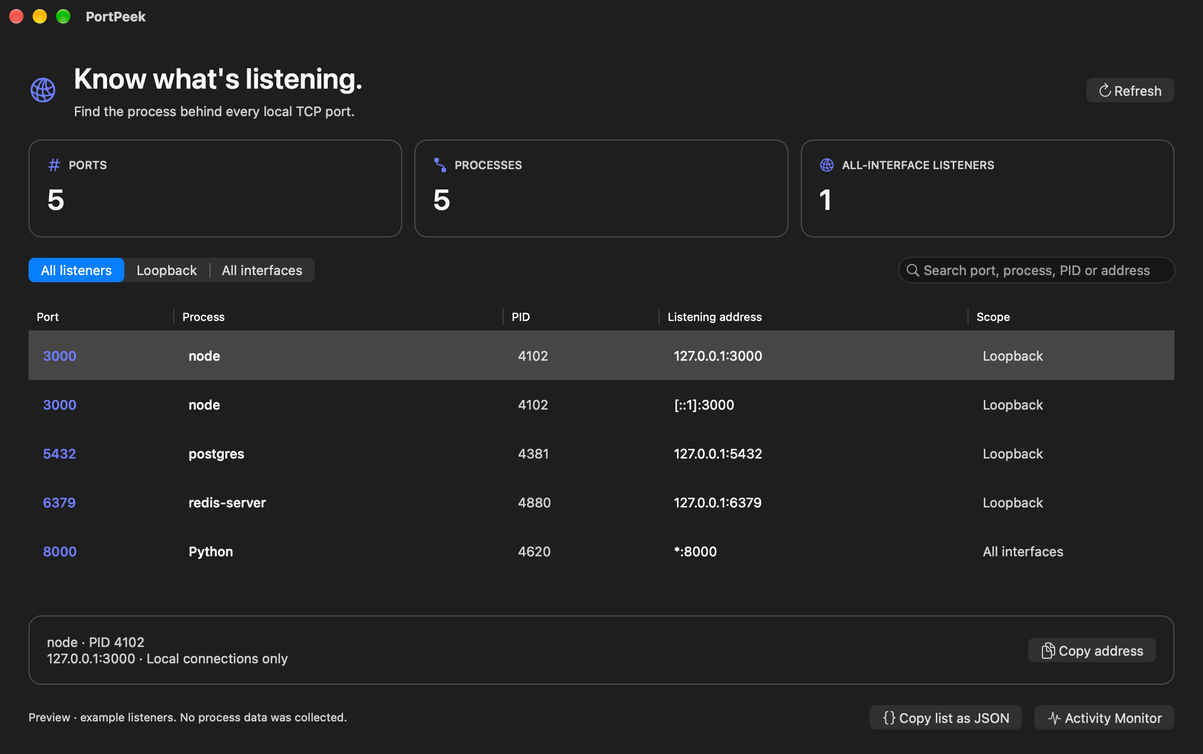
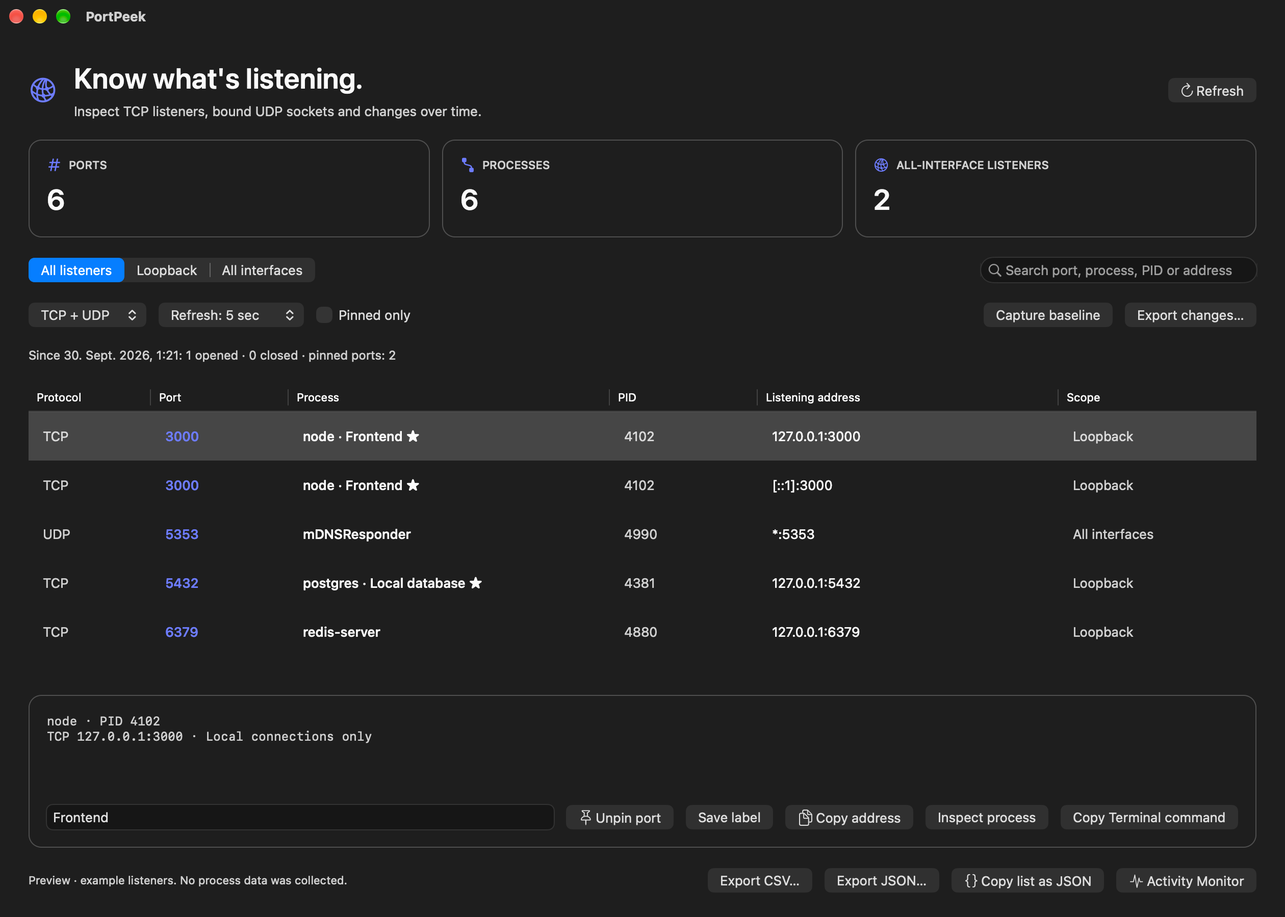
Add UDP inspection, labeled pins, baseline changes, process details and CLI

diff --git a/Sources/App.swift b/Sources/App.swift
@@ -3,41 +3,53 @@ import AppKit
 final class AppDelegate: ProductAppDelegate, NSTableViewDataSource, NSTableViewDelegate, NSSearchFieldDelegate {
     var listeners: [Listener] = [], shown: [Listener] = []
     var table: NSTableView!, search: NSSearchField!, scope: NSSegmentedControl!, status: NSTextField!, inspector: NSTextField!, copyButton: NSButton!
+    var transport:NSPopUpButton!, interval:NSPopUpButton!, pinnedOnly:NSButton!, labelField:NSTextField!, pinButton:NSButton!, delta:NSTextField!
+    var pins:Set<Int>=[], labels:[String:String]=[:], baseline:PortSnapshot?, changes=PortChanges(opened:[],closed:[]), hasRead=false
     var portsMetric: Metric!, processesMetric: Metric!, networkMetric: Metric!, refreshButton: NSButton!, timer: Timer?, reading = false
     override func buildWindow() {
-        makeWindow(width:1180,height:740,minWidth:940,minHeight:640)
+        makeWindow(width:1260,height:900,minWidth:1080,minHeight:810)
         let root = NSView(); window.contentView = root
-        let heading = vertical([text("Know what's listening.",28,.semibold),text("Find the process behind every local TCP port.",13,color:.secondaryLabelColor)],spacing:8)
+        let heading = vertical([text("Know what's listening.",28,.semibold),text("Inspect TCP listeners, bound UDP sockets and changes over time.",13,color:.secondaryLabelColor)],spacing:8)
         refreshButton = button("Refresh", "arrow.clockwise",target:self,action:#selector(refresh)); refreshButton.keyEquivalent = "r"
         search = NSSearchField(); search.placeholderString = "Search port, process, PID or address"; search.delegate = self; search.widthAnchor.constraint(equalToConstant:270).isActive = true
         let header = horizontal([horizontal([symbol("network",size:24),heading],spacing:16),spacer(),refreshButton])
         portsMetric = Metric("PORTS",value:"—",icon:"number"); processesMetric = Metric("PROCESSES",value:"—",icon:"app.connected.to.app.below.fill"); networkMetric = Metric("ALL-INTERFACE LISTENERS",value:"—",icon:"network")
         let metrics = horizontal([portsMetric,processesMetric,networkMetric],spacing:12); metrics.distribution = .fillEqually
         scope = NSSegmentedControl(labels:["All listeners","Loopback","All interfaces"],trackingMode:.selectOne,target:self,action:#selector(filter)); scope.selectedSegment = 0
+        transport=NSPopUpButton(); transport.addItems(withTitles:["TCP + UDP","TCP","UDP"]); transport.target=self; transport.action=#selector(filter)
+        interval=NSPopUpButton(); interval.addItems(withTitles:["Refresh: 5 sec","Refresh: 15 sec","Refresh: 30 sec","Manual refresh"]); interval.target=self; interval.action=#selector(changeInterval)
+        pinnedOnly=NSButton(checkboxWithTitle:"Pinned only",target:self,action:#selector(filter))
+        if !isDemo { pins=Set(UserDefaults.standard.array(forKey:"pins") as? [Int] ?? []); labels=UserDefaults.standard.dictionary(forKey:"labels") as? [String:String] ?? [:]; if let data=UserDefaults.standard.data(forKey:"baseline") { baseline=try? JSONDecoder().decode(PortSnapshot.self,from:data) } }
         let controls = horizontal([scope,spacer(),search])
-        table = makeTable([("port","Port",100),("process","Process",280),("pid","PID",110),("address","Listening address",260),("scope","Scope",160)]); table.dataSource = self; table.delegate = self
+        let monitoring = horizontal([transport,interval,pinnedOnly,spacer(),button("Capture baseline",target:self,action:#selector(captureBaseline)),button("Export changes…",target:self,action:#selector(exportChanges))])
+        delta=text("Capture a baseline to compare future observations.",12,color:.secondaryLabelColor)
+        table = makeTable([("protocol","Protocol",85),("port","Port",100),("process","Process",280),("pid","PID",110),("address","Listening address",260),("scope","Scope",160)]); table.dataSource = self; table.delegate = self
         let tableCard = Surface(scroll(table),padding:0)
-        inspector = text("Select a listener to inspect its address and process.",13,color:.secondaryLabelColor); inspector.maximumNumberOfLines = 2; inspector.lineBreakMode = .byWordWrapping
+        inspector = text("Select a listener to inspect its address and process.",13,color:.secondaryLabelColor); inspector.maximumNumberOfLines = 4; inspector.lineBreakMode = .byWordWrapping
         copyButton = button("Copy address", "doc.on.doc",target:self,action:#selector(copyAddress)); copyButton.isEnabled = false
         let copyJSON = button("Copy list as JSON", "curlybraces",target:self,action:#selector(copyList)); let monitor = button("Activity Monitor", "waveform.path.ecg",target:self,action:#selector(openMonitor))
-        let actions = horizontal([inspector,spacer(),copyButton]); let inspectorSurface = Surface(actions,padding:18)
+        inspector.font = .monospacedSystemFont(ofSize:12,weight:.regular); inspector.heightAnchor.constraint(equalToConstant:78).isActive=true
+        labelField=NSTextField(string:""); labelField.placeholderString="Label this port, e.g. API / Postgres"; labelField.target=self; labelField.action=#selector(saveLabel)
+        pinButton=button("Pin port", "pin",target:self,action:#selector(togglePin))
+        let actions=horizontal([labelField,pinButton,button("Save label",target:self,action:#selector(saveLabel)),copyButton,button("Inspect process",target:self,action:#selector(processDetails)),button("Copy Terminal command",target:self,action:#selector(copyCommand))])
+        let detail=vertical([inspector,actions]); fullWidth(inspector,detail); fullWidth(actions,detail); let inspectorSurface=Surface(detail,padding:18)
         status = text(isDemo ? "Preview · example listeners. No process data was collected." : "Reading local listeners…",11,color:.secondaryLabelColor)
-        let bottom = horizontal([status,spacer(),copyJSON,monitor])
-        let body = vertical([header,metrics,controls,tableCard,inspectorSurface,bottom],spacing:20)
-        for view in [header,metrics,controls,tableCard,inspectorSurface,bottom] { fullWidth(view,body) }
+        let bottom = horizontal([status,spacer(),button("Export CSV…",target:self,action:#selector(exportCSV)),button("Export JSON…",target:self,action:#selector(exportJSON)),copyJSON,monitor])
+        let body = vertical([header,metrics,controls,monitoring,delta!,tableCard,inspectorSurface,bottom],spacing:20)
+        for view in [header,metrics,controls,monitoring,delta!,tableCard,inspectorSurface,bottom] { fullWidth(view,body) }
         root.addSubview(body); body.translatesAutoresizingMaskIntoConstraints = false
         NSLayoutConstraint.activate([body.leadingAnchor.constraint(equalTo:root.leadingAnchor,constant:28),body.trailingAnchor.constraint(equalTo:root.trailingAnchor,constant:-28),body.topAnchor.constraint(equalTo:(window.contentLayoutGuide as! NSLayoutGuide).topAnchor,constant:28),body.bottomAnchor.constraint(equalTo:root.bottomAnchor,constant:-24)])
         if isDemo {
-            listeners = [Listener(pid:4102,process:"node",host:"127.0.0.1",port:3000),Listener(pid:4102,process:"node",host:"::1",port:3000),Listener(pid:4381,process:"postgres",host:"127.0.0.1",port:5432),Listener(pid:4620,process:"Python",host:"*",port:8000),Listener(pid:4714,process:"ruby",host:"127.0.0.1",port:9292),Listener(pid:4880,process:"redis-server",host:"127.0.0.1",port:6379)]
-            filter(); table.selectRowIndexes(IndexSet(integer:0),byExtendingSelection:false)
-        } else { refresh(); timer = Timer.scheduledTimer(withTimeInterval:5,repeats:true) { [weak self] _ in guard let self, self.window.isVisible else { return }; self.refresh() } }
+            pins=[3000,5432]; labels=["3000":"Frontend","5432":"Local database"]; listeners = [Listener(pid:4102,process:"node",host:"127.0.0.1",port:3000),Listener(pid:4102,process:"node",host:"::1",port:3000),Listener(pid:4381,process:"postgres",host:"127.0.0.1",port:5432),Listener(pid:4620,process:"Python",host:"*",port:8000),Listener(pid:4714,process:"ruby",host:"127.0.0.1",port:9292),Listener(pid:4880,process:"redis-server",host:"127.0.0.1",port:6379)]
+            listeners.append(Listener(pid:4990,process:"mDNSResponder",host:"*",port:5353,transport:"UDP")); baseline=PortSnapshot(date:Date().addingTimeInterval(-300),listeners:Array(listeners.dropLast())); updateChanges(); filter(); table.selectRowIndexes(IndexSet(integer:0),byExtendingSelection:false)
+        } else { refresh(); changeInterval() }
     }
     @objc func refresh() {
         guard !isDemo, !reading else { return }; reading = true; refreshButton.isEnabled = false
         DispatchQueue.global(qos:.utility).async { [weak self] in
-            let result = Result { try PortMonitor.read() }
+            let result = Result { try PortMonitor.read(transport:"All") }
             DispatchQueue.main.async { guard let self else { return }; self.reading = false; self.refreshButton.isEnabled = true
-                switch result { case .success(let report): self.listeners = report.listeners; self.filter(); self.status.stringValue = report.message == nil ? "Updated \(Date().formatted(date:.omitted,time:.standard)) · automatic refresh every 5 seconds · read-only" : "Partial results: \(report.message!)"; self.status.toolTip = report.message
+                switch result { case .success(let report): self.listeners = report.listeners; self.hasRead=true; self.updateChanges(); self.filter(); self.status.stringValue = report.message == nil ? "Updated \(Date().formatted(date:.omitted,time:.standard)) · read-only" : "Partial results: \(report.message!)"; self.status.toolTip = report.message
                 case .failure(let error): self.status.stringValue = "Could not refresh: \(error.localizedDescription)"; self.status.toolTip = error.localizedDescription }
             }
         }
@@ -47,17 +59,28 @@ final class AppDelegate: ProductAppDelegate, NSTableViewDataSource, NSTableViewD
         let selection = selected?.id, query = search.stringValue.lowercased()
         shown = listeners.filter { listener in
             let matchesScope = scope.selectedSegment == 0 || (scope.selectedSegment == 1 ? listener.loopback : listener.wildcard)
-            return matchesScope && (query.isEmpty || "\(listener.port) \(listener.process) \(listener.pid) \(listener.host)".lowercased().contains(query))
+            return matchesScope && (transport.indexOfSelectedItem == 0 || listener.transport == transport.titleOfSelectedItem) && (pinnedOnly.state != .on || pins.contains(listener.port)) && (query.isEmpty || "\(listener.port) \(listener.process) \(listener.pid) \(listener.host) \(labels[String(listener.port)] ?? "")".lowercased().contains(query))
         }.sorted { $0.port == $1.port ? $0.pid < $1.pid : $0.port < $1.port }
         table.reloadData(); if let selection,let row = shown.firstIndex(where: { $0.id == selection }) { table.selectRowIndexes(IndexSet(integer:row),byExtendingSelection:false) } else { table.deselectAll(nil) }
         portsMetric.value.stringValue = String(Set(listeners.map(\.port)).count); processesMetric.value.stringValue = String(Set(listeners.map(\.pid)).count); networkMetric.value.stringValue = String(listeners.filter(\.wildcard).count)
         tableViewSelectionDidChange(Notification(name:NSTableView.selectionDidChangeNotification))
     }
     var selected: Listener? { guard table != nil, shown.indices.contains(table.selectedRow) else { return nil }; return shown[table.selectedRow] }
-    func tableViewSelectionDidChange(_ notification: Notification) { copyButton.isEnabled = selected != nil; if let row = selected { inspector.stringValue = "\(row.process) · PID \(row.pid)\n\(row.address) · \(row.wildcard ? "Listening on all interfaces" : row.loopback ? "Local connections only" : "Bound to a specific interface")" } else { inspector.stringValue = shown.isEmpty ? "No listeners match this view." : "Select a listener to inspect its address and process." } }
+    func tableViewSelectionDidChange(_ notification: Notification) { copyButton.isEnabled = selected != nil; pinButton.isEnabled=selected != nil; labelField.isEnabled=selected != nil; labelField.stringValue=selected.flatMap{ labels[String($0.port)] } ?? ""; pinButton.title=selected.map{ pins.contains($0.port) ? "Unpin port" : "Pin port" } ?? "Pin port"; if let row = selected { inspector.stringValue = "\(row.process) · PID \(row.pid)\n\(row.transport) \(row.address) · \(row.wildcard ? "Listening on all interfaces" : row.loopback ? "Local connections only" : "Bound to a specific interface")" } else { inspector.stringValue = shown.isEmpty ? "No listeners match this view." : "Select a listener to inspect its address and process." } }
+    @objc func changeInterval() { timer?.invalidate(); guard !isDemo,interval.indexOfSelectedItem<3 else{return}; timer=Timer.scheduledTimer(withTimeInterval:Double([5,15,30][interval.indexOfSelectedItem]),repeats:true){[weak self] _ in guard let self,self.window.isVisible else{return};self.refresh()} }
+    @objc func togglePin(){guard !isDemo,let row=selected else{return};if pins.contains(row.port){pins.remove(row.port)}else{pins.insert(row.port)};UserDefaults.standard.set(Array(pins),forKey:"pins");filter()}
+    @objc func saveLabel(){guard !isDemo,let row=selected else{return};labels[String(row.port)]=String(labelField.stringValue.prefix(100));UserDefaults.standard.set(labels,forKey:"labels");filter()}
+    @objc func captureBaseline(){guard !isDemo,hasRead,!reading else{return};baseline=PortSnapshot(date:Date(),listeners:listeners);if let data=try? JSONEncoder().encode(baseline){UserDefaults.standard.set(data,forKey:"baseline")};updateChanges()}
+    func updateChanges(){guard let baseline else{return};changes=PortExports.changes(before:baseline.listeners,after:listeners);delta.stringValue="Since \(baseline.date.formatted(date:.abbreviated,time:.shortened)): \(changes.opened.count) opened · \(changes.closed.count) closed · pinned ports: \(pins.count)"}
+    @objc func processDetails(){guard !isDemo,let row=selected else{return};inspector.stringValue="Reading process \(row.pid)…";DispatchQueue.global(qos:.utility).async{let result=Result{try PortMonitor.details(row)};DispatchQueue.main.async{guard self.selected?.id==row.id else{return};switch result{case .success(let value):self.inspector.stringValue="\(row.transport) \(row.address) · PID \(row.pid)\nUser · elapsed time · command\n"+value;self.inspector.toolTip=value;case .failure(let error):self.inspector.stringValue=error.localizedDescription}}}}
+    @objc func copyCommand(){guard let row=selected else{return};NSPasteboard.general.clearContents();NSPasteboard.general.setString("lsof -nP -i\(row.transport):\(row.port)"+(row.transport=="TCP" ? " -sTCP:LISTEN" : ""),forType:.string)}
+    func exportData(_ data:Data,name:String){guard !isDemo else{return};let panel=NSSavePanel();panel.nameFieldStringValue=name;panel.beginSheetModal(for:window){response in guard response == .OK,let url=panel.url else{return};do{try data.write(to:url,options:.withoutOverwriting);self.status.stringValue="Exported \(name)"}catch{self.alert("Export failed",error.localizedDescription)}}}
+    @objc func exportCSV(){exportData(Data(PortExports.csv(shown).utf8),name:"PortPeek.csv")}
+    @objc func exportJSON(){guard let data=try? JSONEncoder().encode(PortSnapshot(date:Date(),listeners:shown)) else{return};exportData(data,name:"PortPeek.json")}
+    @objc func exportChanges(){guard let baseline else{status.stringValue="Capture a baseline first.";return};let object:[String:Any] = ["baseline":baseline.date.description,"observed":Date().description,"opened":changes.opened.map{["protocol":$0.transport,"pid":String($0.pid),"port":String($0.port),"process":$0.process,"address":$0.address]},"closed":changes.closed.map{["protocol":$0.transport,"pid":String($0.pid),"port":String($0.port),"process":$0.process,"address":$0.address]}];if let data=try? JSONSerialization.data(withJSONObject:object,options:[.prettyPrinted,.sortedKeys]){exportData(data,name:"PortPeek-changes.json")}}
     @objc func copyAddress() { guard let row = selected else { return }; NSPasteboard.general.clearContents(); NSPasteboard.general.setString(row.address,forType:.string) }
     @objc func copyList() { guard let data = try? JSONEncoder().encode(shown),let string = String(data:data,encoding:.utf8) else { return }; NSPasteboard.general.clearContents(); NSPasteboard.general.setString(string,forType:.string); status.stringValue = "Copied \(shown.count) visible listeners as JSON." }
     @objc func openMonitor() { NSWorkspace.shared.open(URL(fileURLWithPath:"/System/Applications/Utilities/Activity Monitor.app")) }
     func numberOfRows(in tableView: NSTableView) -> Int { shown.count }
-    func tableView(_ tableView: NSTableView,viewFor column:NSTableColumn?,row:Int) -> NSView? { let listener = shown[row]; switch column?.identifier.rawValue { case "port":return cell(String(listener.port),color:Product.accent,bold:true); case "process":return cell(listener.process,bold:true);case "pid":return cell(String(listener.pid),color:.secondaryLabelColor);case "address":return cell(listener.address);default:return cell(listener.wildcard ? "All interfaces" : listener.loopback ? "Loopback" : "Specific interface",color:.secondaryLabelColor) } }
+    func tableView(_ tableView: NSTableView,viewFor column:NSTableColumn?,row:Int) -> NSView? { let listener = shown[row]; switch column?.identifier.rawValue { case "protocol":return cell(listener.transport,color:.secondaryLabelColor); case "port":return cell(String(listener.port),color:Product.accent,bold:true); case "process":return cell(listener.process+(labels[String(listener.port)].map{" · "+$0} ?? "")+(pins.contains(listener.port) ? " ★" : ""),bold:true);case "pid":return cell(String(listener.pid),color:.secondaryLabelColor);case "address":return cell(listener.address);default:return cell(listener.wildcard ? "All interfaces" : listener.loopback ? "Loopback" : "Specific interface",color:.secondaryLabelColor) } }
 }

diff --git a/Sources/Core.swift b/Sources/Core.swift
@@ -2,21 +2,22 @@ import Foundation
 
 struct Listener: Codable, Hashable {
     let pid: Int, process: String, host: String, port: Int
-    var id: String { "\(pid)|\(host)|\(port)" }
+    var transport = "TCP"
+    var id: String { "\(transport)|\(pid)|\(host)|\(port)" }
     var loopback: Bool { host.hasPrefix("127.") || host == "::1" || host == "localhost" }
     var wildcard: Bool { host == "*" || host == "0.0.0.0" || host == "::" }
     var address: String { "\(host.contains(":") ? "[\(host)]" : host):\(port)" }
 }
 enum ListenerParser {
-    static func parse(_ output: String) -> [Listener] {
+    static func parse(_ output: String, transport: String = "TCP") -> [Listener] {
         var pid = 0, process = "", found: Set<Listener> = []
         for line in output.split(separator:"\n") {
             guard let kind = line.first else { continue }; let value = String(line.dropFirst())
             if kind == "p" { pid = Int(value) ?? 0; process = "" }
             else if kind == "c" { process = value }
-            else if kind == "n", pid > 0, !process.isEmpty, let colon = value.lastIndex(of:":"), let port = Int(value[value.index(after:colon)...]), (1...65535).contains(port) {
+            else if kind == "n", !value.contains("->"), pid > 0, !process.isEmpty, let colon = value.lastIndex(of:":"), let port = Int(value[value.index(after:colon)...]), (1...65535).contains(port) {
                 let host = String(value[..<colon]).trimmingCharacters(in:CharacterSet(charactersIn:"[]"))
-                found.insert(Listener(pid:pid,process:process,host:host,port:port))
+                found.insert(Listener(pid:pid,process:process,host:host,port:port,transport:transport))
             }
         }
         return found.sorted { $0.port == $1.port ? ($0.pid == $1.pid ? $0.host < $1.host : $0.pid < $1.pid) : $0.port < $1.port }
@@ -29,18 +30,40 @@ final class PipeCapture: @unchecked Sendable {
     func read() -> Data { lock.lock(); defer { lock.unlock() }; return value }
 }
 enum PortMonitor {
-    static func read() throws -> ListenerReport {
-        let process = Process(); process.executableURL = URL(fileURLWithPath:"/usr/sbin/lsof"); process.arguments = ["-nP","-iTCP","-sTCP:LISTEN","-Fpcn"]
-        let out = Pipe(), err = Pipe(); process.standardOutput = out; process.standardError = err
-        try process.run()
-        // Drain stderr concurrently so warnings cannot fill a pipe and block lsof.
-        let errors = PipeCapture(); let group = DispatchGroup(); group.enter()
-        DispatchQueue.global().async { errors.store(err.fileHandleForReading.readDataToEndOfFile()); group.leave() }
-        let data = out.fileHandleForReading.readDataToEndOfFile(); process.waitUntilExit(); group.wait()
-        let message = String(data:errors.read(),encoding:.utf8)?.trimmingCharacters(in:.whitespacesAndNewlines) ?? ""
-        if process.terminationStatus != 0 && process.terminationStatus != 1 { throw NSError(domain:"PortPeek",code:Int(process.terminationStatus),userInfo:[NSLocalizedDescriptionKey:message.isEmpty ? "Could not inspect local listeners." : message]) }
-        return ListenerReport(listeners:ListenerParser.parse(String(data:data,encoding:.utf8) ?? ""),message:message.isEmpty ? nil : message)
+    static func command(_ executable:String,_ arguments:[String]) throws -> (String,Int32,String) {
+        let process=Process(); process.executableURL=URL(fileURLWithPath:executable); process.arguments=arguments
+        let out=Pipe(),err=Pipe(); process.standardOutput=out; process.standardError=err; try process.run()
+        let outputs=PipeCapture(),errors=PipeCapture(),group=DispatchGroup()
+        group.enter(); DispatchQueue.global().async { outputs.store(out.fileHandleForReading.readDataToEndOfFile()); group.leave() }
+        group.enter(); DispatchQueue.global().async { errors.store(err.fileHandleForReading.readDataToEndOfFile()); group.leave() }
+        let deadline=Date().addingTimeInterval(8)
+        while process.isRunning && Date()<deadline { Thread.sleep(forTimeInterval:0.03) }
+        if process.isRunning { process.terminate(); Thread.sleep(forTimeInterval:0.1); if process.isRunning { kill(process.processIdentifier,SIGKILL) }; process.waitUntilExit(); group.wait(); throw PortFailure(message:"Inspection timed out after 8 seconds") }
+        process.waitUntilExit(); group.wait()
+        return (String(decoding:outputs.read(),as:UTF8.self),process.terminationStatus,String(decoding:errors.read(),as:UTF8.self).trimmingCharacters(in:.whitespacesAndNewlines))
     }
+    static func read(transport:String = "TCP") throws -> ListenerReport {
+        var rows:[Listener]=[],warnings:[String]=[]
+        for mode in transport == "All" ? ["TCP","UDP"] : [transport] {
+            guard ["TCP","UDP"].contains(mode) else { throw PortFailure(message:"Protocol must be TCP, UDP or All") }
+            let arguments = ["-nP","-i"+mode] + (mode == "TCP" ? ["-sTCP:LISTEN"] : []) + ["-Fpcn"]
+            let (output,status,message) = try command("/usr/sbin/lsof",arguments)
+            guard status == 0 || status == 1 else { throw PortFailure(message:message.isEmpty ? "Could not inspect sockets" : message) }
+            rows += ListenerParser.parse(output,transport:mode); if !message.isEmpty { warnings.append(message) }
+        }
+        return ListenerReport(listeners:rows,message:warnings.isEmpty ? nil : warnings.joined(separator:"; "))
+    }
+    static func details(_ row:Listener) throws -> String {
+        let (value,status,error)=try command("/bin/ps",["-p",String(row.pid),"-o","user=,etime=,command="])
+        guard status == 0 else { throw PortFailure(message:error.isEmpty ? "Process has exited" : error) }; return String(value.prefix(16000)).trimmingCharacters(in:.whitespacesAndNewlines)
+    }
+}
+struct PortSnapshot: Codable { let date:Date; let listeners:[Listener] }
+struct PortChanges { let opened:[Listener],closed:[Listener] }
+enum PortExports {
+    static func changes(before:[Listener],after:[Listener]) -> PortChanges { let a=Set(before),b=Set(after); return PortChanges(opened:after.filter{ !a.contains($0) },closed:before.filter{ !b.contains($0) }) }
+    static func csv(_ rows:[Listener]) -> String { func quote(_ value:String)->String { "\""+(["=","+","-","@"].contains(String(value.first ?? " ")) ? "'" : "")+value.replacingOccurrences(of:"\"",with:"\"\"")+"\"" }; return "Protocol,Port,PID,Process,Address\n"+rows.map{ [quote($0.transport),String($0.port),String($0.pid),quote($0.process),quote($0.address)].joined(separator:",") }.joined(separator:"\n")+"\n" }
+
 }
 struct PortFailure: Error { let message: String }
 enum ProductTests {
@@ -50,6 +73,10 @@ enum ProductTests {
         guard rows.count == 3 && rows.map(\.port) == [3000,5432,8000] && rows[0].loopback && rows[1].loopback && rows[2].wildcard else { throw PortFailure(message:"Process grouping, deduplication or IPv6 scope failed") }
         guard rows[1].address == "[::1]:5432" else { throw PortFailure(message:"IPv6 address formatting") }
         guard ListenerParser.parse("p1\nca\nn*:0\nn*:65536\n").isEmpty else { throw PortFailure(message:"Invalid port accepted") }
+        let udp=ListenerParser.parse("p12\ncserver\nn*:5353\nn127.0.0.1:44->127.0.0.1:55\n",transport:"UDP")
+        guard udp.count == 1 && udp[0].transport == "UDP" && udp[0].id.hasPrefix("UDP|") else { throw PortFailure(message:"UDP bound socket parsing") }
+        let change=PortExports.changes(before:rows,after:[rows[0]]+udp); guard change.opened == udp && change.closed.count == 2 else { throw PortFailure(message:"Snapshot difference") }
+        guard PortExports.csv(udp).contains("UDP") else { throw PortFailure(message:"CSV protocol export") }
         let encoded = try JSONEncoder().encode(rows); guard try JSONDecoder().decode([Listener].self,from:encoded) == rows else { throw PortFailure(message:"JSON export fidelity") }
     }
 }

diff --git a/Sources/CLI.swift b/Sources/CLI.swift
@@ -1,0 +1,36 @@
+import Foundation
+struct CLIError: LocalizedError { let message:String; var errorDescription:String? {message} }
+struct CLIOptions {
+    let values:[String:String]; let flags:Set<String>
+    init(_ args:[String], allowed:Set<String>, flags allowedFlags:Set<String> = []) throws {
+        var values:[String:String]=[:],flags:Set<String>=[]
+        for arg in args {
+            guard arg.hasPrefix("--") else {throw CLIError(message:"Options use --name=value syntax")}
+            let parts=String(arg.dropFirst(2)).split(separator:"=",maxSplits:1,omittingEmptySubsequences:false)
+            let key=String(parts[0]); guard values[key] == nil,!flags.contains(key) else{throw CLIError(message:"Duplicate option: "+key)}
+            if parts.count==2,allowed.contains(key){values[key]=String(parts[1])}
+            else if parts.count==1,allowedFlags.contains(key){flags.insert(key)}
+            else{throw CLIError(message:"Unknown option: "+arg)}
+        }
+        self.values=values;self.flags=flags
+    }
+    func required(_ key:String)throws->String{guard let value=values[key],!value.isEmpty else{throw CLIError(message:"Missing --"+key+"=value")};return value}
+    func url(_ key:String)throws->URL{URL(fileURLWithPath:try required(key))}
+    var excludes:Set<String>{Set((values["exclude"] ?? "").split(separator:",").map(String.init))}
+}
+func cliJSON<T:Encodable>(_ value:T)throws{let e=JSONEncoder();e.outputFormatting=[.prettyPrinted,.sortedKeys];e.dateEncodingStrategy = .iso8601;print(String(decoding:try e.encode(value),as:UTF8.self))}
+func cliObject(_ value:[String:Any])throws{print(String(decoding:try JSONSerialization.data(withJSONObject:value,options:[.prettyPrinted,.sortedKeys]),as:UTF8.self))}
+enum ProductCLI {
+    static func handle() -> Bool {
+        let args=Array(CommandLine.arguments.dropFirst());guard let command=args.first,!command.hasPrefix("--") || command=="--help" else{return false}
+        do {try run(command,Array(args.dropFirst()));return true} catch {fputs("Error: \(error.localizedDescription)\n",stderr);exit(1)}
+    }
+    static func run(_ command:String,_ args:[String]) throws {
+        if command=="--help"{print("PortPeek list [--protocol=TCP|UDP|All] [--port=3000] [--scope=all|loopback|wildcard] [--format=json|csv]\nRead-only local socket inspection. No elevated privileges are requested.");return}
+        guard command=="list" else{throw CLIError(message:"Use list or --help")};let o=try CLIOptions(args,allowed:["protocol","port","scope","format"])
+        let report=try PortMonitor.read(transport:o.values["protocol"] ?? "All");if let warning=report.message{fputs("Partial results: "+warning+"\n",stderr)};var rows=report.listeners
+        if let value=o.values["port"]{guard let port=Int(value),(1...65535).contains(port) else{throw CLIError(message:"Invalid port")};rows=rows.filter{$0.port==port}}
+        switch o.values["scope"] ?? "all"{case "all":break;case "loopback":rows=rows.filter(\.loopback);case "wildcard":rows=rows.filter(\.wildcard);default:throw CLIError(message:"scope must be all, loopback or wildcard")}
+        switch o.values["format"] ?? "json"{case "json":try cliJSON(PortSnapshot(date:Date(),listeners:rows));case "csv":print(PortExports.csv(rows),terminator:"");default:throw CLIError(message:"format must be json or csv")}
+    }
+}

diff --git a/Sources/Shared.swift b/Sources/Shared.swift
@@ -98,7 +98,7 @@ class ProductAppDelegate: NSObject, NSApplicationDelegate, NSWindowDelegate {
         window.minSize = NSSize(width: minWidth, height: minHeight); window.isReleasedWhenClosed = false
         if snapshotPath == nil { window.setFrameAutosaveName("MainWindow") }
     }
-    @objc func about() { NSApp.orderFrontStandardAboutPanel(options: [.applicationName: Product.name, .applicationVersion: "1.0.0", .credits: NSAttributedString(string: "A native Mac utility by leonsuv.\nMIT License · Local processing.")]) }
+    @objc func about() { NSApp.orderFrontStandardAboutPanel(options: [.applicationName: Product.name, .applicationVersion: Bundle.main.object(forInfoDictionaryKey:"CFBundleShortVersionString") as? String ?? "1.1.0", .credits: NSAttributedString(string: "A native Mac utility by leonsuv.\nMIT License · Local processing.")]) }
     @objc func theme(_ sender: NSMenuItem) { applyTheme(sender.title); if !isDemo { UserDefaults.standard.set(sender.title, forKey: "appearance") } }
     func applyTheme(_ mode: String) { NSApp.appearance = mode == "System" ? nil : NSAppearance(named: mode == "Dark" ? .darkAqua : .aqua) }
     func applicationShouldTerminateAfterLastWindowClosed(_ sender: NSApplication) -> Bool { true }

diff --git a/Sources/main.swift b/Sources/main.swift
@@ -10,6 +10,7 @@ if CommandLine.arguments.contains("--self-test") {
     catch { fputs("FAIL: \(error)\n", stderr); exit(1) }
     exit(0)
 }
+if ProductCLI.handle() { exit(0) }
 let application = NSApplication.shared
 application.setActivationPolicy(.regular)
 let delegate = AppDelegate()

diff --git a/scripts/check-cli.py b/scripts/check-cli.py
@@ -1,0 +1,24 @@
+#!/usr/bin/env python3
+"""Exercise the released command surface with isolated fixtures; never touch user files."""
+import json, pathlib, socket, subprocess, tempfile
+ROOT = pathlib.Path(__file__).resolve().parents[1]
+NAME = ROOT.name
+BINARY = ROOT / "dist" / (NAME + ".app") / "Contents/MacOS" / NAME
+
+def run(*args, code=0):
+    result = subprocess.run([str(BINARY), *args], capture_output=True, text=True, timeout=45)
+    assert result.returncode == code, (args, result.returncode, result.stderr)
+    return result.stdout
+
+assert run("--help").strip()
+with tempfile.TemporaryDirectory(prefix=NAME + "-CLI-check-") as tmp:
+    root = pathlib.Path(tmp)
+    for protocol,kind in [("TCP",socket.SOCK_STREAM),("UDP",socket.SOCK_DGRAM)]:
+        with socket.socket(socket.AF_INET,kind) as listener:
+            listener.bind(("127.0.0.1",0));port=listener.getsockname()[1]
+            if protocol=="TCP":listener.listen(1)
+            report=json.loads(run("list",f"--protocol={protocol}",f"--port={port}","--scope=loopback"))
+            assert any(row["transport"]==protocol and row["port"]==port for row in report["listeners"])
+            assert run("list",f"--protocol={protocol}",f"--port={port}","--format=csv").startswith("Protocol,Port,PID,Process,Address")
+    run("list","--port=0",code=1)
+print("PASS: " + NAME + " CLI integration checks")

diff --git a/README.md b/README.md
@@ -2,26 +2,40 @@
 
 **Know what’s listening.**
 
-A native Mac utility that connects local TCP listening ports to their owning processes. Find the development server occupying a port, inspect its bind address, and copy a clean snapshot.
+A native Mac utility that connects local TCP listeners and bound UDP sockets to their owning processes. Find the development server occupying a port, inspect its bind address, and copy a clean snapshot.
 
 ## What it does
 
-- TCP port, process name, PID, listening address and bind scope in one table.
-- Search by port, process, PID or address.
-- Filter loopback and all-interface listeners.
-- Automatic refresh every five seconds while the window is visible, plus ⌘R.
-- IPv4 and IPv6 address handling.
-- Copy a selected address or the visible list as JSON.
-- Open Activity Monitor for further inspection.
+- TCP listeners and unconnected bound UDP sockets, including IPv4/IPv6 addresses.
+- Filter protocol, bind scope, process, PID, address or custom port label.
+- Pin frequently used ports and label services such as an API or local database.
+- Capture a persistent baseline; see opened/closed sockets and export the change report.
+- Choose five-, fifteen- or thirty-second refresh, or freeze with manual mode.
+- Inspect a selected process command, user and elapsed time through the system `ps` tool.
+- Copy an address or Terminal `lsof` command; open Activity Monitor.
+- Export filtered CSV/JSON snapshots or copy JSON to the clipboard.
+- Read-only CLI socket inventory with protocol, port and scope filters.
+- System commands time out after eight seconds; no administrator access is requested.
 
 ## Use it
 
-1. Open the app to read local TCP listeners.
+1. Open the app to read local TCP listeners and bound UDP sockets.
 2. Search for a port such as `3000`, or choose a scope filter.
 3. Select a row to inspect the process and address.
 4. Copy the address or filtered JSON when needed.
 
-PortPeek uses the system `/usr/sbin/lsof` without administrator privileges. Visibility depends on your current permissions, and process names are those reported by lsof. It lists TCP listeners, not UDP sockets or established connections. An all-interface bind is not proof of internet reachability: routing and firewall rules also matter. It does not stop processes or change network settings. The three counters describe the full scan; JSON exports the filtered rows.
+PortPeek uses the system `/usr/sbin/lsof` without administrator privileges. Visibility depends on your current permissions, and process names are those reported by lsof. It lists TCP listeners and unconnected bound UDP sockets, excluding established TCP connections and connected UDP endpoints. An all-interface bind is not proof of internet reachability: routing and firewall rules also matter. It does not stop processes or change network settings. The three counters describe the full scan; snapshot CSV/JSON exports the filtered rows. Baselines and custom port labels are stored in local UserDefaults.
+
+## Automation and integrations
+
+```sh
+tool="/Applications/PortPeek.app/Contents/MacOS/PortPeek"
+"$tool" list --protocol=All --format=json
+"$tool" list --protocol=TCP --port=3000 --scope=loopback
+"$tool" list --protocol=UDP --format=csv > bound-udp.csv
+```
+
+The CLI sends system warnings to stderr and data to stdout. Shell redirection follows normal shell overwrite behavior. Baseline changes compare observed sockets, including PID, protocol, address and process. Short-lived sockets between refreshes can be missed; an opened/closed count is not a continuous traffic history. Pins and labels are keyed by port number across protocols. The baseline records all protocols regardless of the active table filter.
 
 ## Privacy
 
@@ -70,13 +84,19 @@ Parser checks cover process grouping, duplicate entries, IPv6 addresses, scopes,
 
 Run the live-listener check with `python3 scripts/live-check.py`.
 
+Run the CLI integration check (uses temporary fixtures only):
+
+```sh
+python3 scripts/check-cli.py
+```
+
 To reproduce the example screenshots:
 
 ```sh
 ./scripts/screenshots.sh
 ```
 
-Demo mode does not write normal app settings or perform real rename operations. Screenshots are captured from AppKit’s window view after layout. The icon is drawn from the project’s own vector shapes; regenerate it with `./tools/generate-icon.sh`.
+Demo mode does not collect real process information or write normal app settings. Screenshots are captured from AppKit’s window view after layout. The icon is drawn from the project’s own vector shapes; regenerate it with `./tools/generate-icon.sh`.
 
 ## Releases
 

diff --git a/RELEASE.md b/RELEASE.md
@@ -1,17 +1,14 @@
-# PortPeek 1.0.0
+# PortPeek 1.1.0
 
-A native Mac utility that connects local TCP listening ports to their owning processes. Find the development server occupying a port, inspect its bind address, and copy a clean snapshot.
+- TCP listeners and unconnected bound UDP sockets, including IPv4/IPv6 addresses.
+- Filter protocol, bind scope, process, PID, address or custom port label.
+- Pin frequently used ports and label services such as an API or local database.
+- Capture a persistent baseline; see opened/closed sockets and export the change report.
+- Choose five-, fifteen- or thirty-second refresh, or freeze with manual mode.
+- Inspect a selected process command, user and elapsed time through the system `ps` tool.
+- Copy an address or Terminal `lsof` command; open Activity Monitor.
+- Export filtered CSV/JSON snapshots or copy JSON to the clipboard.
+- Read-only CLI socket inventory with protocol, port and scope filters.
+- System commands time out after eight seconds; no administrator access is requested.
 
-- TCP port, process name, PID, listening address and bind scope in one table.
-- Search by port, process, PID or address.
-- Filter loopback and all-interface listeners.
-- Automatic refresh every five seconds while the window is visible, plus ⌘R.
-- IPv4 and IPv6 address handling.
-- Copy a selected address or the visible list as JSON.
-- Open Activity Monitor for further inspection.
-
-Includes native Light/Dark/System appearance, a custom app icon, documentation and example screenshots.
-
-**Download:** unzip `PortPeek-1.0.0-macos.zip` and move `PortPeek.app` to Applications. Apple Silicon only; deployment target macOS 13+, tested locally on macOS 27. Ad-hoc signed, not notarized; macOS may require approval in Privacy & Security. `SHA256SUMS.txt` verifies the ZIP.
-
-Functional tests and signature validation run during the release build.
+Apple Silicon · macOS 13+ deployment target. Locally tested on macOS 27. Download the ZIP and verify it against SHA256SUMS.txt. Builds are ad-hoc signed and are not Developer ID signed or notarized. See the README for workflows, CLI examples, limits and first-launch instructions.

diff --git a/CHANGELOG.md b/CHANGELOG.md
@@ -1,5 +1,18 @@
 # Changelog
 
+## 1.1.0 — 2026-09-30
+
+- TCP listeners and unconnected bound UDP sockets, including IPv4/IPv6 addresses.
+- Filter protocol, bind scope, process, PID, address or custom port label.
+- Pin frequently used ports and label services such as an API or local database.
+- Capture a persistent baseline; see opened/closed sockets and export the change report.
+- Choose five-, fifteen- or thirty-second refresh, or freeze with manual mode.
+- Inspect a selected process command, user and elapsed time through the system `ps` tool.
+- Copy an address or Terminal `lsof` command; open Activity Monitor.
+- Export filtered CSV/JSON snapshots or copy JSON to the clipboard.
+- Read-only CLI socket inventory with protocol, port and scope filters.
+- System commands time out after eight seconds; no administrator access is requested.
+
 ## 1.0.0 — 2026-09-30
 
 First public release.
